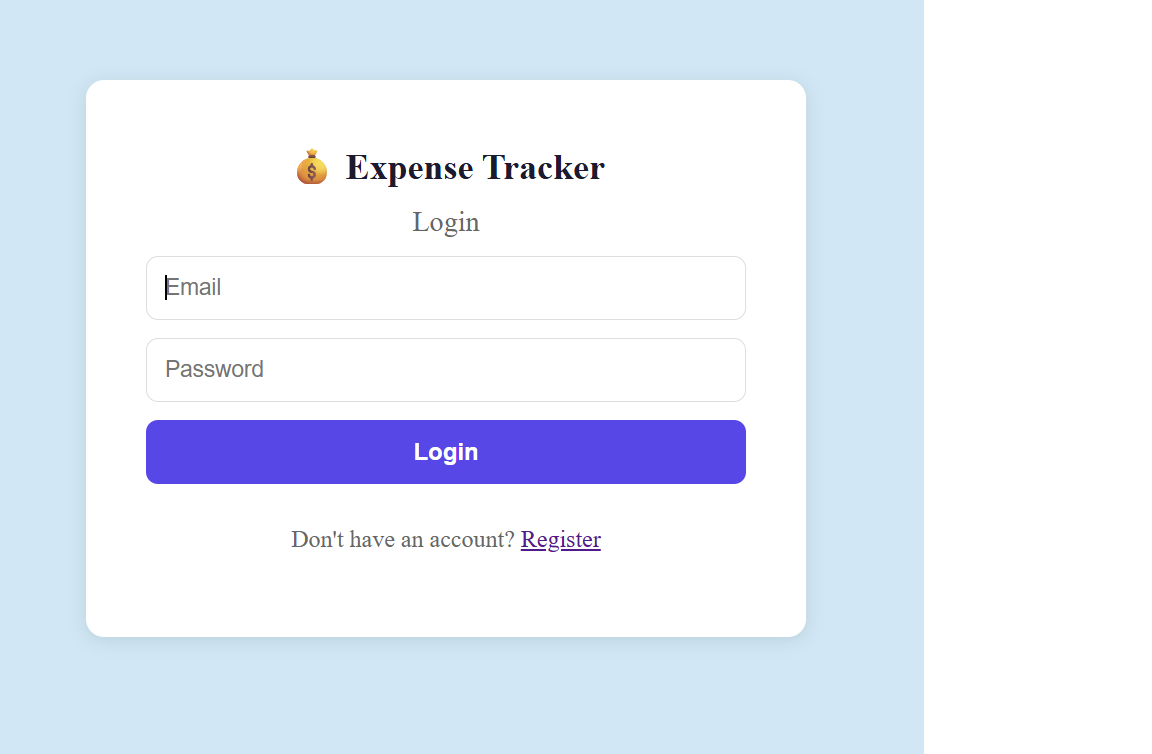
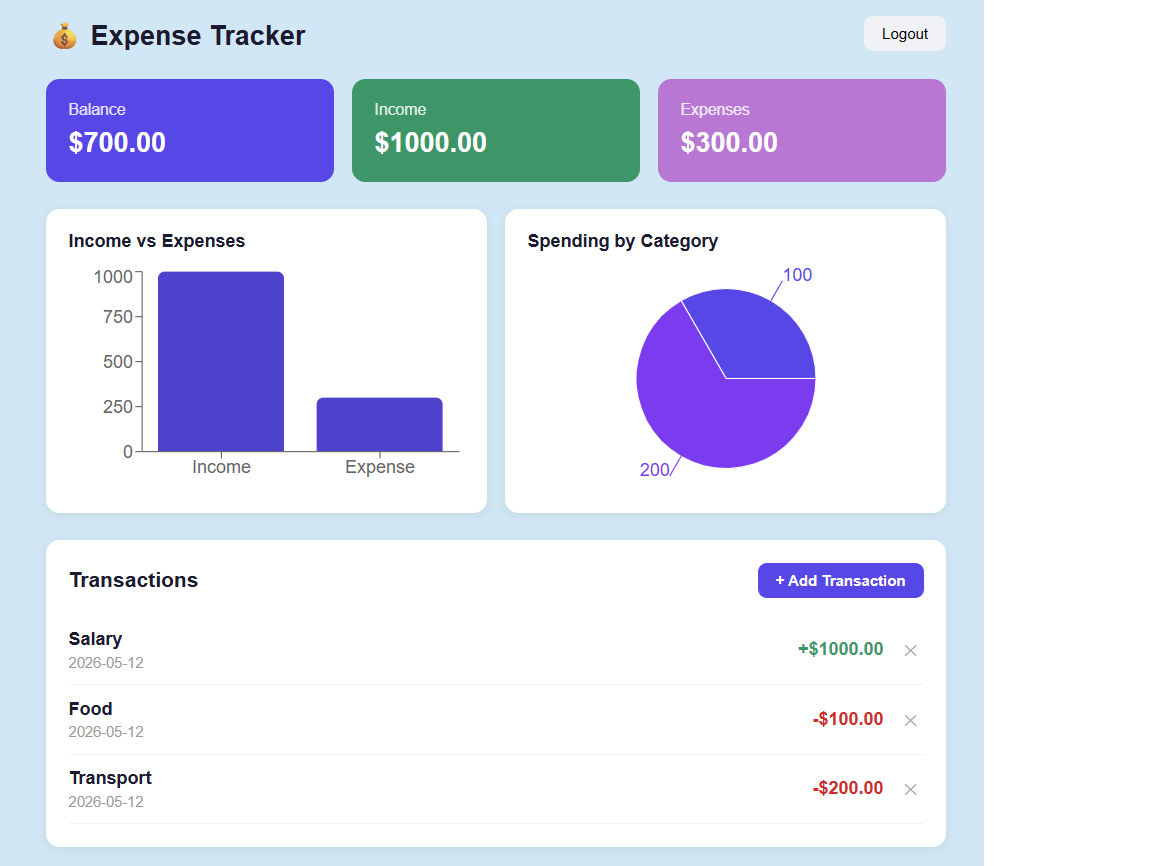
Update README with screenshots

diff --git a/README.md b/README.md
@@ -3,15 +3,17 @@
 A full stack web application to track personal income and expenses with real-time charts and analytics.
 
 ## 📸 Screenshots
+![Login](screenshots/login.png)
 ![Dashboard](screenshots/dashboard.png)
 
 ## ✨ Features
+
 - User registration and login with JWT authentication
 - Add, view, and delete income and expense transactions
 - Real-time balance calculation (Income - Expenses)
 - Interactive bar chart — Income vs Expenses
 - Pie chart — Spending breakdown by category
-- Filter transactions by category and type
+- Color coded transactions (green = income, red = expense)
 - Fully responsive design
 
 ## 🛠 Tech Stack
@@ -30,7 +32,7 @@ A full stack web application to track personal income and expenses with real-tim
 - Passlib + Bcrypt (password hashing)
 
 **Database:**
-- SQLite (local)
+- SQLite (local development)
 
 ## 🚀 Getting Started
 
@@ -38,7 +40,13 @@ A full stack web application to track personal income and expenses with real-tim
 - Python 3.10+
 - Node.js 18+
 
-### Backend Setup
+### 1. Clone the repository
+```bash
+git clone https://github.com/PaakhiKataria/expense-tracker.git
+cd expense-tracker
+```
+
+### 2. Backend Setup
 ```bash
 cd backend
 python -m venv venv
@@ -47,36 +55,64 @@ pip install fastapi uvicorn sqlalchemy python-jose passlib bcrypt python-multipa
 uvicorn main:app --reload
 ```
 
-### Frontend Setup
+Backend runs on: `http://127.0.0.1:8000`
+
+API docs available at: `http://127.0.0.1:8000/docs`
+
+### 3. Frontend Setup
 ```bash
 cd frontend
 npm install
 npm run dev
 ```
 
-### Open the app
-Go to `http://localhost:5173` in your browser.
+Frontend runs on: `http://localhost:5173`
 
 ## 📁 Project Structure
+
+```
 expense-tracker/
 ├── backend/
-│   ├── main.py
-│   ├── database.py
-│   ├── models.py
-│   ├── schemas.py
+│   ├── main.py              ← FastAPI app entry point
+│   ├── database.py          ← Database connection
+│   ├── models.py            ← SQLAlchemy models
+│   ├── schemas.py           ← Pydantic schemas
 │   └── routes/
-│       ├── auth.py
-│       └── transactions.py
+│       ├── auth.py          ← Register & Login endpoints
+│       └── transactions.py  ← Transaction CRUD endpoints
 ├── frontend/
 │   └── src/
 │       ├── pages/
-│       │   ├── Login.jsx
-│       │   ├── Register.jsx
-│       │   └── Dashboard.jsx
+│       │   ├── Login.jsx        ← Login page
+│       │   ├── Register.jsx     ← Register page
+│       │   └── Dashboard.jsx    ← Main dashboard with charts
 │       └── api/
-│           └── axios.js
+│           └── axios.js         ← API configuration
 └── README.md
+```
+
+## 🔌 API Endpoints
+
+| Method | Endpoint | Description |
+|--------|----------|-------------|
+| POST | /auth/register | Register a new user |
+| POST | /auth/login | Login and get JWT token |
+| GET | /transactions/ | Get all transactions |
+| POST | /transactions/ | Add a new transaction |
+| PUT | /transactions/{id} | Update a transaction |
+| DELETE | /transactions/{id} | Delete a transaction |
+| GET | /transactions/summary | Get totals and chart data |
+
+## 💡 How It Works
+
+1. User registers and logs in
+2. JWT token is stored in localStorage
+3. Every API request sends the token in the Authorization header
+4. Backend verifies the token and returns only that user's data
+5. Dashboard fetches transactions and summary on load
+6. Charts update automatically when transactions are added or deleted
 
 ## 👩💻 Author
-Paakhi Kataria 
+
+Paakhi Kataria
 - GitHub: [@PaakhiKataria](https://github.com/PaakhiKataria)
